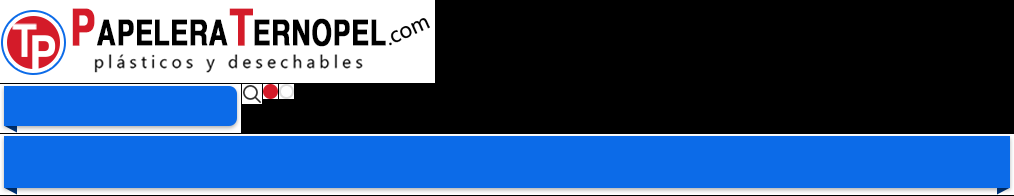
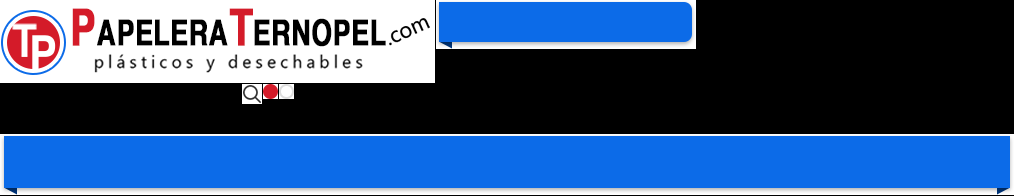
Before changing left toolbar size !

Changed region(s): [[0.428, 0.0, 0.7032, 0.2755], [0.0, 0.4286, 0.2446, 0.7041]]

diff --git a/public/css/styles.css b/public/css/styles.css
@@ -453,7 +453,7 @@ a:hover, a:active {
 }
 
 .main-sidebar {
-	width: 210px;
+	width: 230px;
 	float: left;
 	margin: 0 10px 0 0;
 }
@@ -671,8 +671,8 @@ h2.aside-title {
 	color: #fff;
 	font-size: 22px;
 	font-weight: 200;
-	background: url(../images/all.png) no-repeat 0px -84px;
-	width: 211px;
+	background: url(../images/all.png) no-repeat -436px 0px;
+	width: 230px;
 	height: 49px;
 	margin: 10px 0 0 -27px;
 	line-height: 42px;
